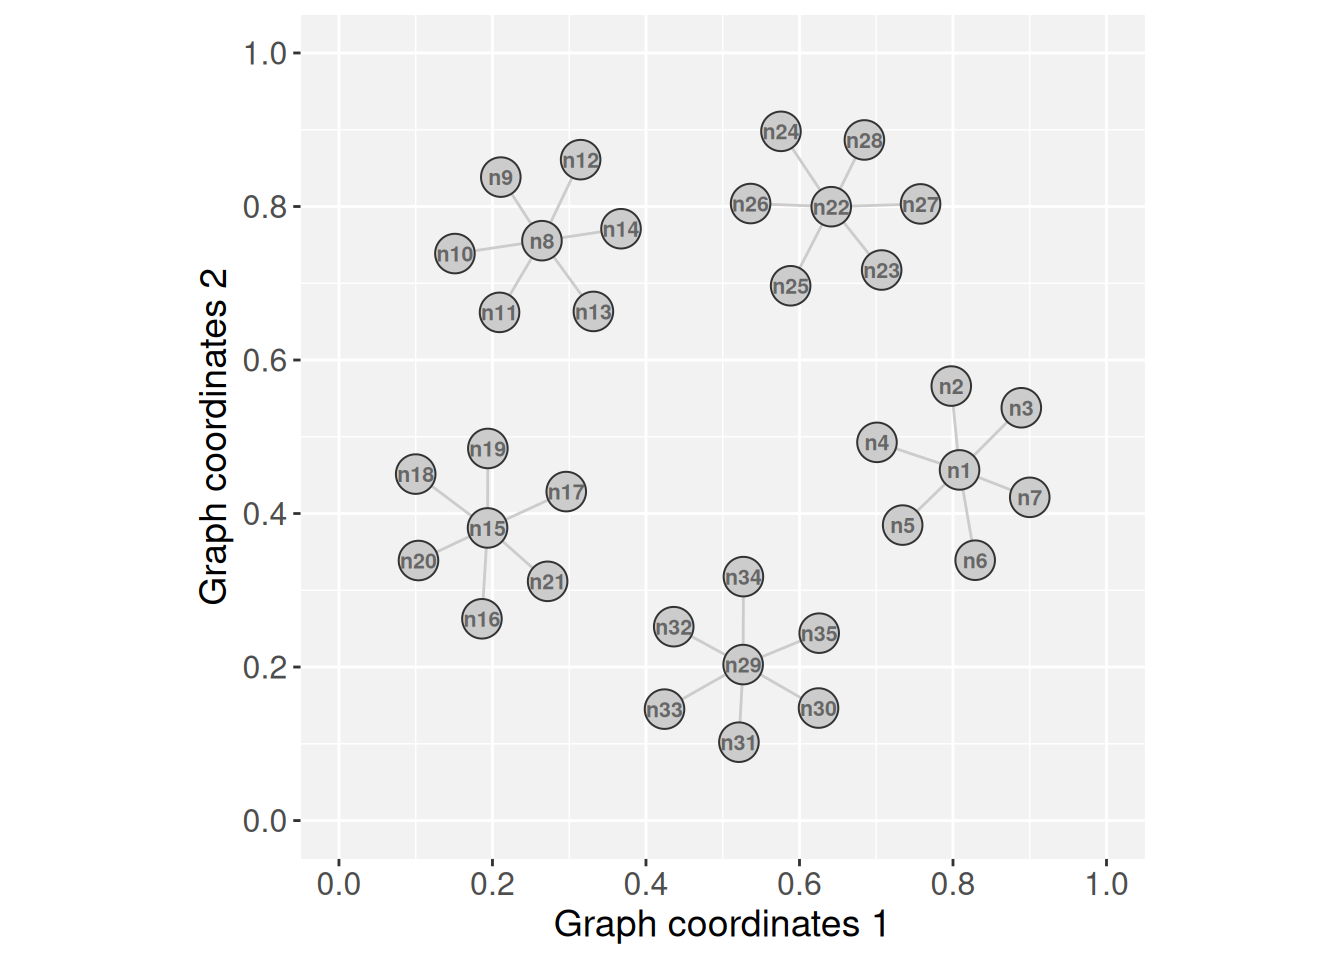
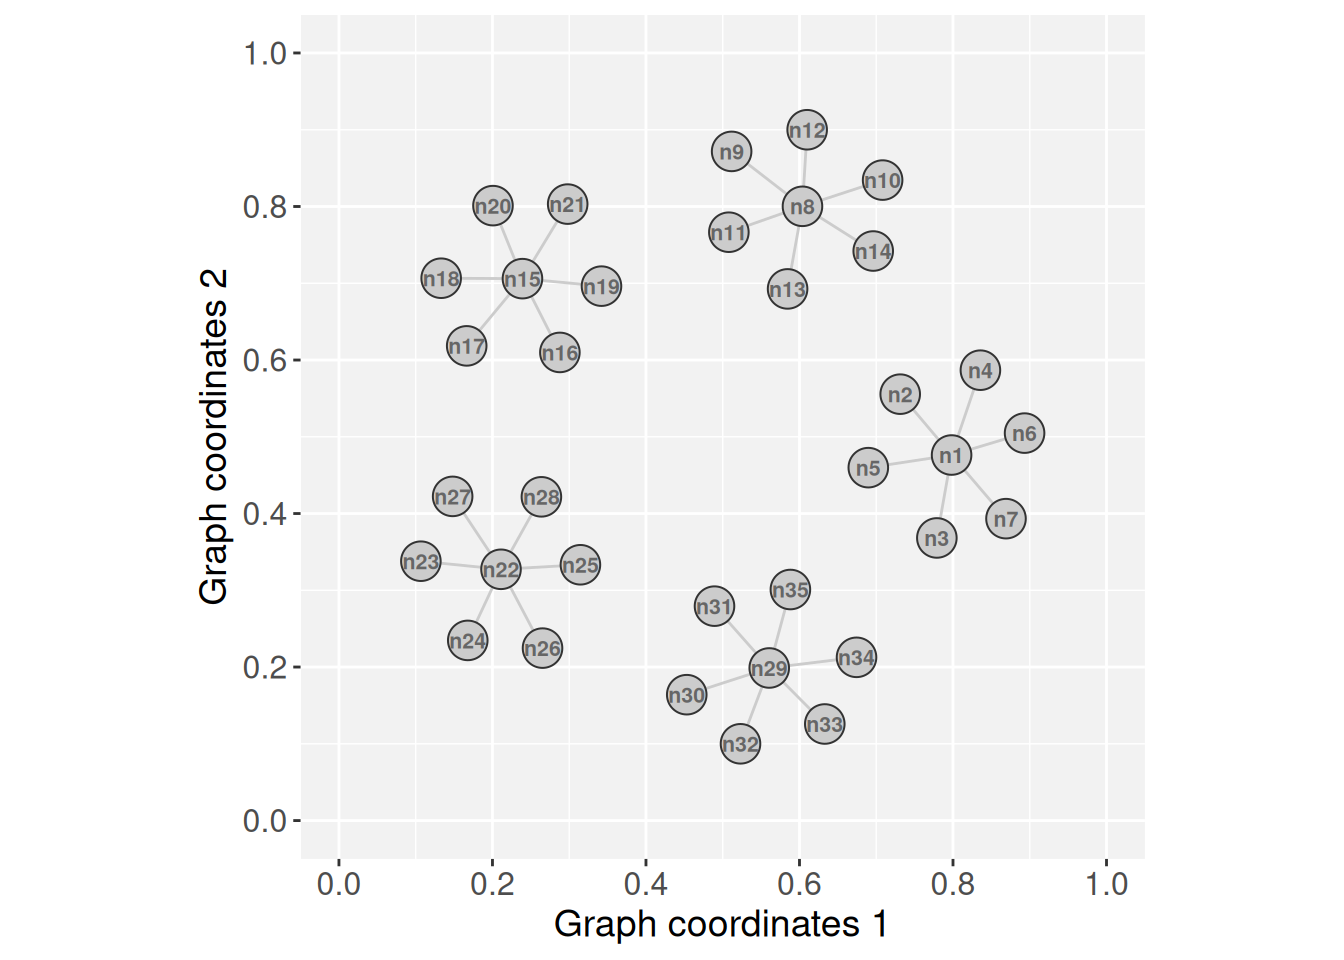
regular maintenance

diff --git a/signal-aggregation-rules.html b/signal-aggregation-rules.html
@@ -11,7 +11,7 @@
 
 <meta name="author" content="Sysbiolab Team" />
 
-<meta name="date" content="2025-10-21" />
+<meta name="date" content="2025-10-23" />
 
 <title>Creating signal aggregation rules</title>
 
@@ -395,7 +395,7 @@ div.tocify {
 
 <h1 class="title toc-ignore">Creating signal aggregation rules</h1>
 <h4 class="author">Sysbiolab Team</h4>
-<h4 class="date">2025-10-21</h4>
+<h4 class="date">2025-10-23</h4>
 
 </div>
 
@@ -426,7 +426,7 @@ for a conceptual overview of signal processing in
 signal aggregation functions for <em>PathwaySpace</em> projections. A
 toy graph with five small islands is used to illustrate aggregation
 rules that emphasize distinct patterns in the data. The final section
-suggests a list of <em>fuzzy logic</em> operators that can be use to
+suggests a list of <em>fuzzy logic</em> operators that can be used to
 aggregate signals in <em>PathwaySpace</em>, including the trade-offs of
 each approach.</p>
 </div>
@@ -471,7 +471,8 @@ library(patchwork)</code></pre>
 <pre class="r"><code># Create a simple graph with five islands
 g &lt;- rep(igraph::make_star(7, &quot;undirected&quot;), 5)
 V(g)$name &lt;- paste0(&quot;n&quot;,1:vcount(g))
-gs &lt;- GraphSpace(g, layout = layout_nicely(g))
+set.seed(123) # for reproducible &#39;layout_with_fr&#39; layout
+gs &lt;- GraphSpace(g, layout = layout_with_fr(g))
 plotGraphSpace(gs, add.labels = TRUE)</code></pre>
 <p><img src="signal-aggregation-rules_files/figure-html/Modeling%20signal%20decay%20-%201-1.png" width="672" /></p>
 <pre class="r"><code># Build a PathwaySpace object
@@ -486,9 +487,9 @@ tutorial).</p>
 <pre class="r"><code># Get distance to the nearest nodes
 near_df &lt;- getNearestNode(ps)
 pdist &lt;- mean(near_df$dist)
-# The &#39;pdist&#39; is the average center-to-center distance between nodes
+# &#39;pdist&#39; as the average center-to-center distance
 pdist</code></pre>
-<pre><code>## [1] 0.1017494</code></pre>
+<pre><code>## [1] 0.09879871</code></pre>
 <pre class="r"><code># Setting a linear decay model for all vertices
 vertexDecay(ps) &lt;- linearDecay(pdist = pdist)</code></pre>
 <p>As a default behavior, the <code>buildPathwaySpace()</code>
@@ -561,12 +562,12 @@ vertices.</p>
 </div>
 <div id="fuzzy-unions-and-intersections" class="section level2">
 <h2>Fuzzy unions and intersections</h2>
-<p>This section lists <em>fuzzy logic</em> functions that can be use to
+<p>This section lists <em>fuzzy logic</em> functions that can be used to
 aggregate signals in <em>PathwaySpace</em>, mostly available from the
 <em>lfl</em> package <span class="citation">(Burda and Štěpnička
 2021)</span>. A fuzzy intersection measures how strongly all signals
 agree at a given point, typically using a <em>t-norm</em> like minimum
-or product. A fuzzy union, in contrast, measures how strongly any of the
+or product. A fuzzy union, in contrast, measures how strong any of the
 signals are at a given point, using a <em>t-conorm</em> like maximum. By
 combining fuzzy unions or intersections with decay functions, we can
 produce unified projections that integrate multiple signal sources into

diff --git a/modeling-signal-decay.html b/modeling-signal-decay.html
@@ -11,7 +11,7 @@
 
 <meta name="author" content="Sysbiolab Team" />
 
-<meta name="date" content="2025-10-21" />
+<meta name="date" content="2025-10-23" />
 
 <title>Modeling signal decay functions</title>
 
@@ -372,7 +372,7 @@ div.tocify {
 
 <h1 class="title toc-ignore">Modeling signal decay functions</h1>
 <h4 class="author">Sysbiolab Team</h4>
-<h4 class="date">2025-10-21</h4>
+<h4 class="date">2025-10-23</h4>
 
 </div>
 
@@ -384,7 +384,7 @@ div.tocify {
 targeted at specific nodes. Using a simple lattice graph, we describe
 the steps to create and apply different decay functions for
 <em>PathwaySpace</em> projections. Nodes in this example represent
-spots, providing an intuitive starting for understanding how these
+spots, providing an intuitive starting point for understanding how these
 functions can be used to capture behaviors in larger or more complex
 graphs, such as from <a
 href="spatial-transcriptomics.html"><strong>spatial
@@ -486,7 +486,7 @@ returns a decay function with customized parameters.</p>
 ##     y &lt;- signal * 0.25^((x/0.75)^2)
 ##     return(y)
 ## }
-## &lt;environment: 0x60088e39c550&gt;
+## &lt;environment: 0x57e323969190&gt;
 ## attr(,&quot;name&quot;)
 ## [1] &quot;weibullDecay&quot;</code></pre>
 <p></br></p>
@@ -547,7 +547,7 @@ the documentation of the <code>vertexDecay()</code> accessor.</p>
 <pre class="r"><code># Get distance to the nearest vertex
 near_df &lt;- getNearestNode(ps)
 pdist &lt;- mean(near_df$dist)
-# The &#39;pdist&#39; is the average center-to-center distance between vertices
+# &#39;pdist&#39; as the average center-to-center
 pdist</code></pre>
 <pre><code>## [1] 0.1</code></pre>
 <pre class="r"><code># Setting a linear decay model for all vertices
@@ -566,7 +566,7 @@ plotPathwaySpace(ps, marks = &quot;n34&quot;)</code></pre>
 <p><img src="modeling-signal-decay_files/figure-html/Running%20PathwaySpace%20-%202-1.png" width="672" /></p>
 <p>By assigning a new decay model to specific vertices, we can explore
 how signals propagate across the network under different rules. To
-illustrate, next we assign a Weibull decay function to vertex
+illustrate, we assign a Weibull decay function to vertex
 <code>n34</code>.</p>
 <pre class="r"><code># Changing decay model of vertex &#39;n34&#39;
 vertexDecay(ps)[[&quot;n34&quot;]] &lt;- weibullDecay(shape = 2, pdist = pdist*10)</code></pre>

diff --git a/spatial-transcriptomics.html b/spatial-transcriptomics.html
@@ -11,7 +11,7 @@
 
 <meta name="author" content="Sysbiolab Team" />
 
-<meta name="date" content="2025-10-21" />
+<meta name="date" content="2025-10-23" />
 
 <title>Visualizing spatial transcriptomics</title>
 
@@ -397,7 +397,7 @@ div.tocify {
 <h3 class="subtitle">Gene expression projections on spot
 coordinates</h3>
 <h4 class="author">Sysbiolab Team</h4>
-<h4 class="date">2025-10-21</h4>
+<h4 class="date">2025-10-23</h4>
 
 </div>
 
@@ -536,7 +536,7 @@ represents 100 µm in the Visium v1 technology.</p>
 <pre class="r"><code># Get distance to the nearest spot
 nspot &lt;- getNearestNode(pspace_obj)
 pdist &lt;- mean(nspot$dist) # average distance
-# The &#39;pdist&#39; is the center-to-center distance between spots
+# &#39;pdist&#39; as the average center-to-center distance
 pdist
 # [1] 0.01395144</code></pre>
 <p>As an optional step, the <code>silhouetteMapping()</code> function
@@ -645,7 +645,7 @@ pspace_obj &lt;- buildSpotSpace(spot_coord = spot_coord, nrc=700)</code></pre>
 <pre class="r"><code># Get distance to the nearest spot
 nspot &lt;- getNearestNode(pspace_obj)
 pdist &lt;- mean(nspot$dist) # average distance
-# The &#39;pdist&#39; is the center-to-center distance between spots
+# &#39;pdist&#39; as the average center-to-center distance
 pdist
 # [1] 0.002497466</code></pre>
 <pre class="r"><code># Add a graph silhouette to the PathwaySpace object
@@ -743,7 +743,7 @@ pspace_obj &lt;- buildSpotSpace(spot_coord = spot_coord,
 <pre class="r"><code># Get distance to the nearest spot
 nspot &lt;- getNearestNode(pspace_obj)
 pdist &lt;- mean(nspot$dist) # average distance
-# The &#39;pdist&#39; is the center-to-center distance between spots
+# &#39;pdist&#39; as the average center-to-center distance
 pdist
 # [1] 0.002516144</code></pre>
 <pre class="r"><code># Add a graph silhouette to the PathwaySpace object

diff --git a/index.html b/index.html
@@ -11,7 +11,7 @@
 
 <meta name="author" content="Sysbiolab Team" />
 
-<meta name="date" content="2025-10-21" />
+<meta name="date" content="2025-10-23" />
 
 <title>PathwaySpace: Projection of network signals along geodesic paths</title>
 
@@ -297,7 +297,7 @@ $(document).ready(function () {
 <h1 class="title toc-ignore"><em>PathwaySpace</em>: Projection of
 network signals along geodesic paths</h1>
 <h4 class="author">Sysbiolab Team</h4>
-<h4 class="date">2025-10-21</h4>
+<h4 class="date">2025-10-23</h4>
 
 </div>
 

diff --git a/get-started.html b/get-started.html
@@ -11,7 +11,7 @@
 
 <meta name="author" content="Sysbiolab Team" />
 
-<meta name="date" content="2025-10-21" />
+<meta name="date" content="2025-10-23" />
 
 <title>Getting started with PathwaySpace</title>
 
@@ -297,7 +297,7 @@ $(document).ready(function () {
 <h1 class="title toc-ignore">Getting started with
 <em>PathwaySpace</em></h1>
 <h4 class="author">Sysbiolab Team</h4>
-<h4 class="date">2025-10-21</h4>
+<h4 class="date">2025-10-23</h4>
 
 </div>
 

diff --git a/sparse-feature-sets.html b/sparse-feature-sets.html
@@ -11,7 +11,7 @@
 
 <meta name="author" content="Sysbiolab Team" />
 
-<meta name="date" content="2025-10-21" />
+<meta name="date" content="2025-10-23" />
 
 <title>Visualizing sparse feature sets on large graphs</title>
 
@@ -396,7 +396,7 @@ div.tocify {
 <h1 class="title toc-ignore">Visualizing sparse feature sets on large
 graphs</h1>
 <h4 class="author">Sysbiolab Team</h4>
-<h4 class="date">2025-10-21</h4>
+<h4 class="date">2025-10-23</h4>
 
 </div>
 

diff --git a/projection-methods.html b/projection-methods.html
@@ -11,7 +11,7 @@
 
 <meta name="author" content="Sysbiolab Team" />
 
-<meta name="date" content="2025-10-21" />
+<meta name="date" content="2025-10-23" />
 
 <title>Network signal projections</title>
 
@@ -374,7 +374,7 @@ div.tocify {
 <h3 class="subtitle">A guided tutorial on <em>PathwaySpace</em>
 projection methods</h3>
 <h4 class="author">Sysbiolab Team</h4>
-<h4 class="date">2025-10-21</h4>
+<h4 class="date">2025-10-23</h4>
 
 </div>
 

diff --git a/install.html b/install.html
@@ -10,7 +10,7 @@
 
 
 
-<meta name="date" content="2025-10-21" />
+<meta name="date" content="2025-10-23" />
 
 <title>Installation Instructions</title>
 
@@ -294,7 +294,7 @@ $(document).ready(function () {
 
 
 <h1 class="title toc-ignore">Installation Instructions</h1>
-<h4 class="date">2025-10-21</h4>
+<h4 class="date">2025-10-23</h4>
 
 </div>
 
